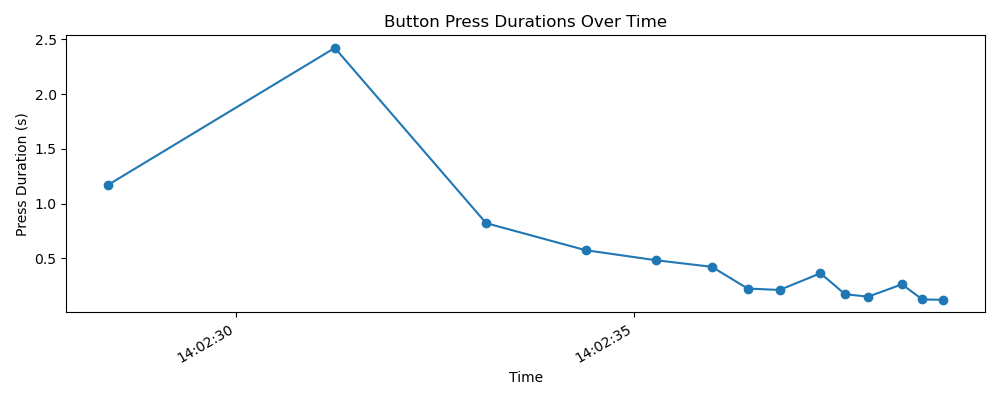
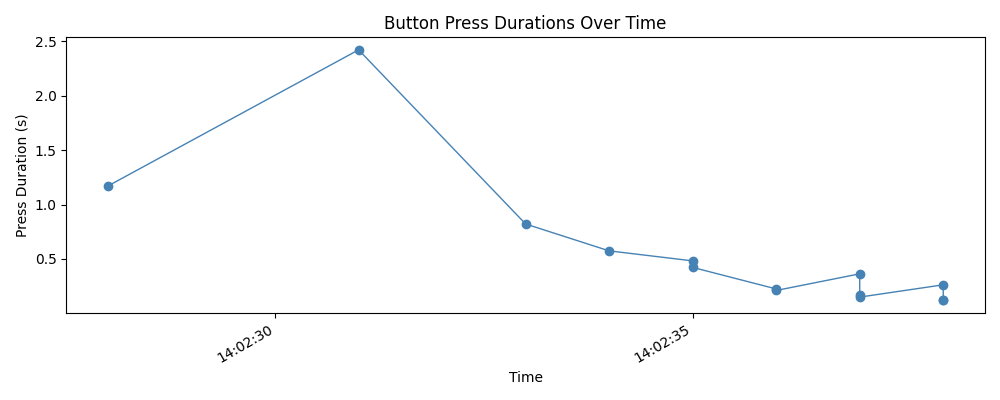
feat: implement Gradio dashboard for button timing logs and refactor ADC read logic

diff --git a/week02/btn_timings.py b/week02/btn_timings.py
@@ -1,88 +1,139 @@
 import RPi.GPIO as GPIO
-import os
 import time
 import csv
+import os
+import threading
 from datetime import datetime
+import matplotlib
+matplotlib.use('Agg')  # headless-safe backend before pyplot is imported
 import matplotlib.pyplot as plt
 import matplotlib.dates as mdates
+import pandas as pd
+import gradio as gr
 
-BUTTON = 20
-CSV_FILE = "data/btn_timings.csv" # this is the f  ile where the data will be stored
-PLOT_FILE = "data/button_press_durations.png"
+# --------
+# config
+# --------
+BUTTON_PIN = 20#setting the pin number
+DATA_DIR = "data"#setting the directory for the data
+CSV_FILE = os.path.join(DATA_DIR, "btn_timings.csv")#setting the csv file path
 
-GPIO.setmode(GPIO.BCM)
-GPIO.setup(BUTTON, GPIO.IN, pull_up_down=GPIO.PUD_UP)
+GPIO.setmode(GPIO.BCM)#setting the mode to bcm
+GPIO.setup(BUTTON_PIN, GPIO.IN, pull_up_down=GPIO.PUD_UP)#setting the pin as an input with pull up resistor
+os.makedirs(DATA_DIR, exist_ok=True)#setting the data directory as an output directory
 
-#make a data folder if t does not exists
-os.makedirs("data", exist_ok=True)
+# ------
+# state variables
+# -----
+press_time = None# declaring press time
+records = []  # list of (datetime, float) tuples
 
-#make a ybuqye fukneae
-file_exists = os.path.exists(CSV_FILE)
-press_start_time = None
-previous_state = GPIO.input(BUTTON)
-print("Button timing logger started.")
-print("Press the button to record a press.")
-print("Press Ctrl+C to exit.")
+# ----- callbacks ------
+def button_event(channel):# declares the button event function
+    global press_time# declares the function is modifying the outer press_time variable not creating a local one
+    state = GPIO.input(channel)# checks the state of the button
+    now = time.time()# saves current time
+    if state == 1:  # pin HIGH = released (pull-up resistor keeps it HIGH when not pressed)
+        press_time = now
+    else:  # pin LOW = pressed
+        if press_time is not None:# if the button was previously pressed
+            duration = now - press_time# calculate the duration of the button press
+            timestamp = datetime.now()# save the current time
+            records.append((timestamp, duration))# appends the timestamp and duration to the records list
+            print(f"{timestamp} | Duration: {duration:.3f}s")# prints the timestamp and duration of the button press
+            press_time = None# resets the press_time variable
 
+GPIO.add_event_detect(
+    BUTTON_PIN,# pin to monitor
+    GPIO.BOTH,# trigger on rising and falling edges (press and release)
+    callback=button_event,# function to call when event is detected
+    bouncetime=50# you want accurate timing but a bounce too high and you will miss presses
+)
+
+# ----------------
+# helpers
+# ----------------
+def build_plot():
+    """Regenerate plot from current CSV data and return the saved path."""
+    plot_path = os.path.join(DATA_DIR, "btn_timings.png")#build the file path proply for the graph and saves it to the data folder in a .png format (with the .png extension it automatically formats it as a png file) than hardcoding the string showing how csv is defined
+    if not os.path.isfile(CSV_FILE):#checks if the csv file exists
+        return None
+    df = pd.read_csv(CSV_FILE)#reads the csv file
+    if df.empty:#checks if the csv file is empty
+        return None
+    times = pd.to_datetime(df["Timestamp"])#converts the timestamp column to datetime objects
+    durations = df["Duration (s)"]#retrieves the duration column
+    fig, ax = plt.subplots(figsize=(10, 4))#creates a figure and a set of subplots
+    ax.plot(times, durations, marker="o", linewidth=1, color="steelblue")#plots the data with a marker for each data point and a line connecting them
+    ax.xaxis.set_major_formatter(mdates.DateFormatter("%H:%M:%S"))#formats the x axis to show hours minutes and seconds without this matplotlib would show raw datetime numbers which are unreadable
+    fig.autofmt_xdate()#rotates the x-axis labels so theyt dont overlap each other
+    ax.set_xlabel("Time")#timestamps when each press happened
+    ax.set_ylabel("Press Duration (s)")#how long each press lasted in seconds
+    ax.set_title("Button Press Durations Over Time")#sets title of the graph
+    plt.tight_layout()# makes the plot look neat and tidy so the title and labels fit in the window
+    plt.savefig(plot_path)#saves the plot
+    plt.close()#closes the plot
+    return plot_path# returns the file path of the plot
+
+def get_session_df():#creates a pandas dataframe from the current session records
+    if not records:#checks if the records list is empty
+        return pd.DataFrame(columns=["Timestamp", "Duration (s)"])#returns an empty dataframe   
+    return pd.DataFrame(
+        [(ts.strftime("%Y-%m-%d %H:%M:%S"), round(dur, 3)) for ts, dur in records],#formats the timestamp and rounds the duration
+        columns=["Timestamp", "Duration (s)"]#sets the column names
+    )
+
+def get_csv_df():#gets the csv dataframe
+    if not os.path.isfile(CSV_FILE):#checks if the csv file exists
+        return pd.DataFrame(columns=["Timestamp", "Duration (s)"])
+    return pd.read_csv(CSV_FILE)#reads the csv file
+
+# ----------------
+# Gradio UI
+# ----------------
+with gr.Blocks(title="Button Timing Monitor") as demo:#
+    gr.Markdown("# Button Press Timing Monitor")#
+    gr.Markdown("Live dashboard — data is appended to CSV on Ctrl+C.")#
+
+    with gr.Row():# creates two columns side by side
+        with gr.Column():# first column
+            gr.Markdown("### This Session")#
+            session_table = gr.DataFrame(value=get_session_df, every=2)#
+        with gr.Column():# second column
+            gr.Markdown("### All Saved Data (CSV)")#
+            csv_table = gr.DataFrame(value=get_csv_df, every=5)#
+
+    plot_img = gr.Image(value=build_plot, every=5, label="Press Duration Plot")#plots the graph
+
+
+def _run_gradio():
+    demo.launch(server_name="0.0.0.0", server_port=7861, quiet=True, prevent_thread_lock=True)#starts the gradio server
+
+
+threading.Thread(target=_run_gradio, daemon=True).start()#starts the gradio server in a separate thread so it doesnt block the main thread
+print("Gradio dashboard: http://<pi-ip>:7861")#prints the url for the gradio dashboard
+print("Tracking button presses. Press Ctrl+C to stop.")#prints a message to the console indicating that the program is tracking button presses and how to stop it
+
+# ----------------
+# main loop
+# ----------------
 try:
-    with open(CSV_FILE , 'a',newline="") as file:
-        writer = csv.writer(file)
-        if not file_exists:
-            writer.writerow(["timestamp", "DurationSeconds"])# this is the header of the csv file
-            
-        while True:
-            current_state = GPIO.input(BUTTON)
-            if previous_state == GPIO.HIGH and current_state == GPIO.LOW:#if the button is not pressed and now pressed
-                press_start_time = time.time()#record the time when the button is pressed
-                print("Button pressed")
-                time.sleep(0.02)
-            elif previous_state == GPIO.LOW and current_state == GPIO.HIGH:#if the button is pressed and now not pressed
-                if press_start_time is not None:
-                    press_end_time = time.time()#record the time when the button is not pressed
-                    duration = round(press_end_time - press_start_time, 3)#calculate the duration of the button press
-                    human_timestamp = datetime.now().strftime("%Y-%m-%d %H:%M:%S.%f")#format the time to a human readable format
-                    writer.writerow([human_timestamp, duration])#write the time and duration to the csv file
-                    file.flush()
-                    print(f"{human_timestamp} - duration: {duration} seconds")#print the time and duration to the console
-                    press_start_time = None#reset the press start time
-                    time.sleep(0.02)
-            previous_state = current_state
-            time.sleep(0.005)
-                
+    while True:# loops continuously to keep the program running
+        time.sleep(0.1)# pauses the program for 0.1 seconds to reduce cpu usage
+except KeyboardInterrupt:# if keyboard interrupt is received
+    print("\nExiting...")# prints exit message
+finally:# append this session to CSV
+    file_exists = os.path.isfile(CSV_FILE)#checks if the csv file exists
+    with open(CSV_FILE, "a", newline="") as file:#opens the csv file in append mode
+        writer = csv.writer(file)# creates a csv writer object
+        if not file_exists:#checks if the csv file exists
+            writer.writerow(["Timestamp", "Duration (s)"])#writes the header row
+        for ts, duration in records:#iterates through the records list
+            writer.writerow([ts.strftime("%Y-%m-%d %H:%M:%S"), round(duration, 3)])#formats the timestamp and rounds the duration
+    print(f"Saved {len(records)} record(s) to {CSV_FILE}")#prints the number of records and the file path
 
-                
-                
+    if records:#checks if there are any records
+        build_plot()#builds the plot
+        print("Plot saved.")#prints that the plot was saved
 
-except KeyboardInterrupt:
-    print("\nButton press logger stopped.")
-finally:
-    GPIO.cleanup()
-                
- #plot all saved atata
-timestamps  = []    
-durations = []
-
-if os.path.exists(CSV_FILE) and os.path.getsize(CSV_FILE) > 0:#check if the file exists and has data
-    with open(CSV_FILE, 'r') as file:
-        reader = csv.reader(file)#create a csv reader object
-        next(reader) # Skip header
-        for row in reader:
-            timestamps.append(datetime.strptime(row[0], "%Y-%m-%d %H:%M:%S.%f"))#convert the timestamp to a datetime object
-            durations.append(float(row[1]))#convert the duration to a float
-            
-if timestamps:
-    fig,ax  = plt.subplots(figsize=(12,6))
-    ax.plot_date(timestamps, durations, linestyle="-", marker="o", markersize=4, color="b", alpha=0.7)#plot the data
-    ax.xaxis.set_major_formatter(mdates.DateFormatter("%Y-%m-%d %H:%M"))#format the x-axis to display the date and time
-    fig.autofmt_xdate()
-    ax.set_xlabel("Timestamp")
-    ax.set_ylabel("Duration (seconds)")
-    ax.set_title("Button Press Durations")
-    ax.legend()
-    plt.tight_layout()
-    plt.savefig("data/button_press_durations.png")
-    print("Plot saved to data/button_press_durations.png")
-    plt.close()
-    print(f" Plot saved to {PLOT_FILE}")
-else:
-    print("No data to plot.")
+    GPIO.cleanup()#cleans up the GPIO pins    

diff --git a/week4/demo.py b/week4/demo.py
@@ -1,41 +1,25 @@
 import smbus
-import time
+import time 
+bus = smbus.SMBus(1) #set the i2c bus
+address = 0x48 #set the address 
 
-# Use I²C bus 1 on the Raspberry Pi
-I2C_BUS = 1
+VREF = 3.3 #reference voltage
 
-# I²C address of the ADS7830 ADC chip
-ADS7830_ADDR = 0x48
-
-# Open the I²C bus so Python can talk to the ADC
-bus = smbus.SMBus(I2C_BUS)
-
-# Function to read one channel from the ADS7830
-def read_ads7830(command):
-    # Send the command byte to the ADC and read back 1 byte (0..255)
-    value = bus.read_byte_data(ADS7830_ADDR, command)
-
-    # Convert the ADC value into a voltage between 0V and 3.3V
-    voltage = value * 3.3 / 255
-
-    # Give back both the raw ADC value and the calculated voltage
-    return value, voltage
+def read_adc(channel):#function to read the ADC channel
+    command = 0x84 | ((channel & 0x07) << 4)#<< 4 put it in the right position command 0x84 sets the single-ended inut mode and start bit for the PCF8591 ADC mask to 3 bits chabbel 0-7 <<4 shifts the channel number into bits 4-6 of command byte
+    # | 0x84 = add required settings
+    bus.write_byte(address, command)  # send channel select command to ADC
+    value = bus.read_byte(address)    # read the converted value
+    return value#return the data
 
 try:
     while True:
-        # Read channel 2 using command byte 0x94
-        value, voltage = read_ads7830(0x94)
-
-        # Print the raw ADC number and the converted voltage
-        print(f"Channel 2 -> ADC: {value:3d}, Voltage: {voltage:.2f} V")
-
-        # Wait a little before reading again
-        time.sleep(0.2)
-
-# Stop the program safely when Ctrl+C is pressed
+        ch = 2#choose the ADC channel
+        value = read_adc(ch) # Read the value from the ADC
+        voltage = (value /255 )* VREF #convert the ADC value to voltage values range 0-255 dvididng by 255 results 0.0 -1.0 multiplying by vref scales to actual voltage value
+        print(f" Channel {ch} value={value} voltage={voltage:.2f}")#print the data
+        time.sleep(0.5)#wait for 0.5 seconds
 except KeyboardInterrupt:
+    print("Exiting")
+finally:
     bus.close()
-
-#This script starts by using I²C bus 1 on the Raspberry Pi. Then we set the address of the ADS7830 chip, which is 0x48. After that, we make a function that reads one channel from the ADS7830.
-# Inside that function, we send a command byte to the ADC to tell it which channel to read, and the ADC sends back one value. That value is an 8-bit ADC number between 0 and 255. Then the script converts that ADC value into a voltage.
-# In the loop, it keeps reading the channel, printing the ADC number and the voltage again and again.    
